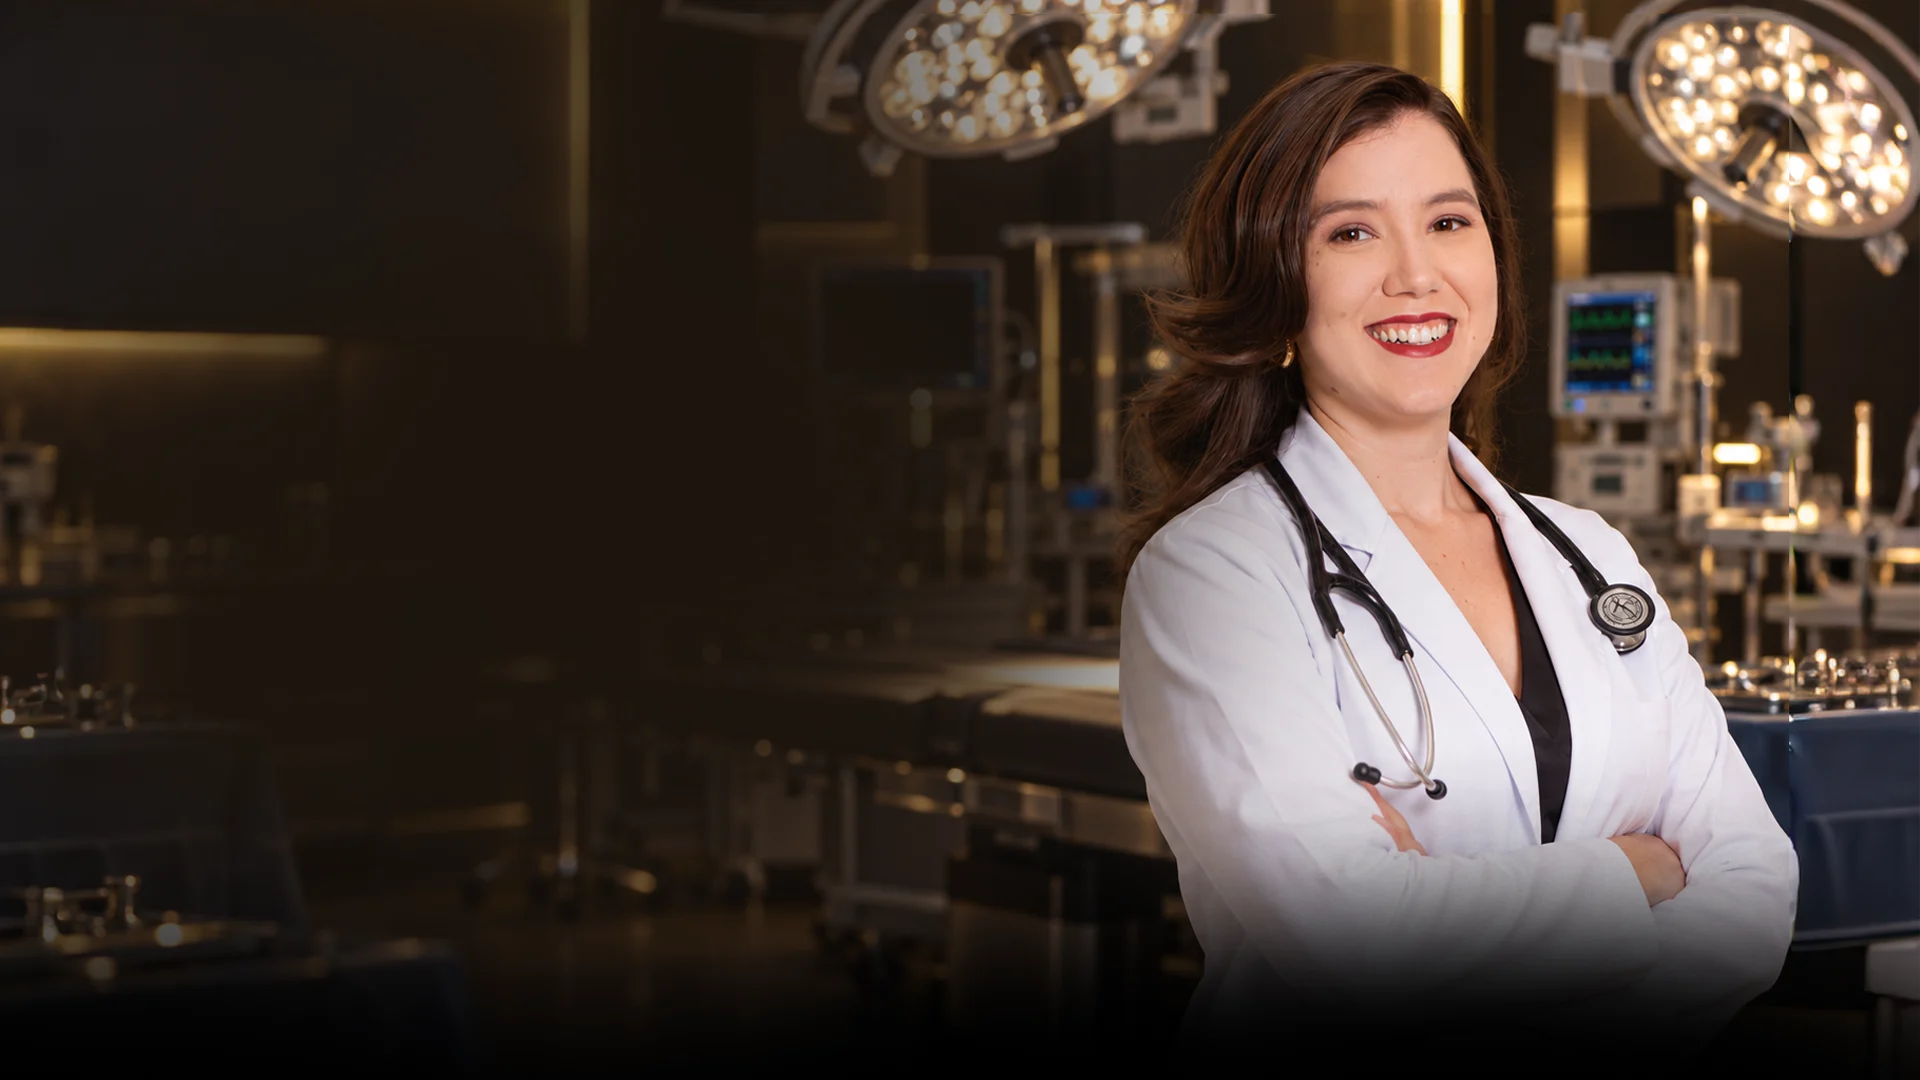
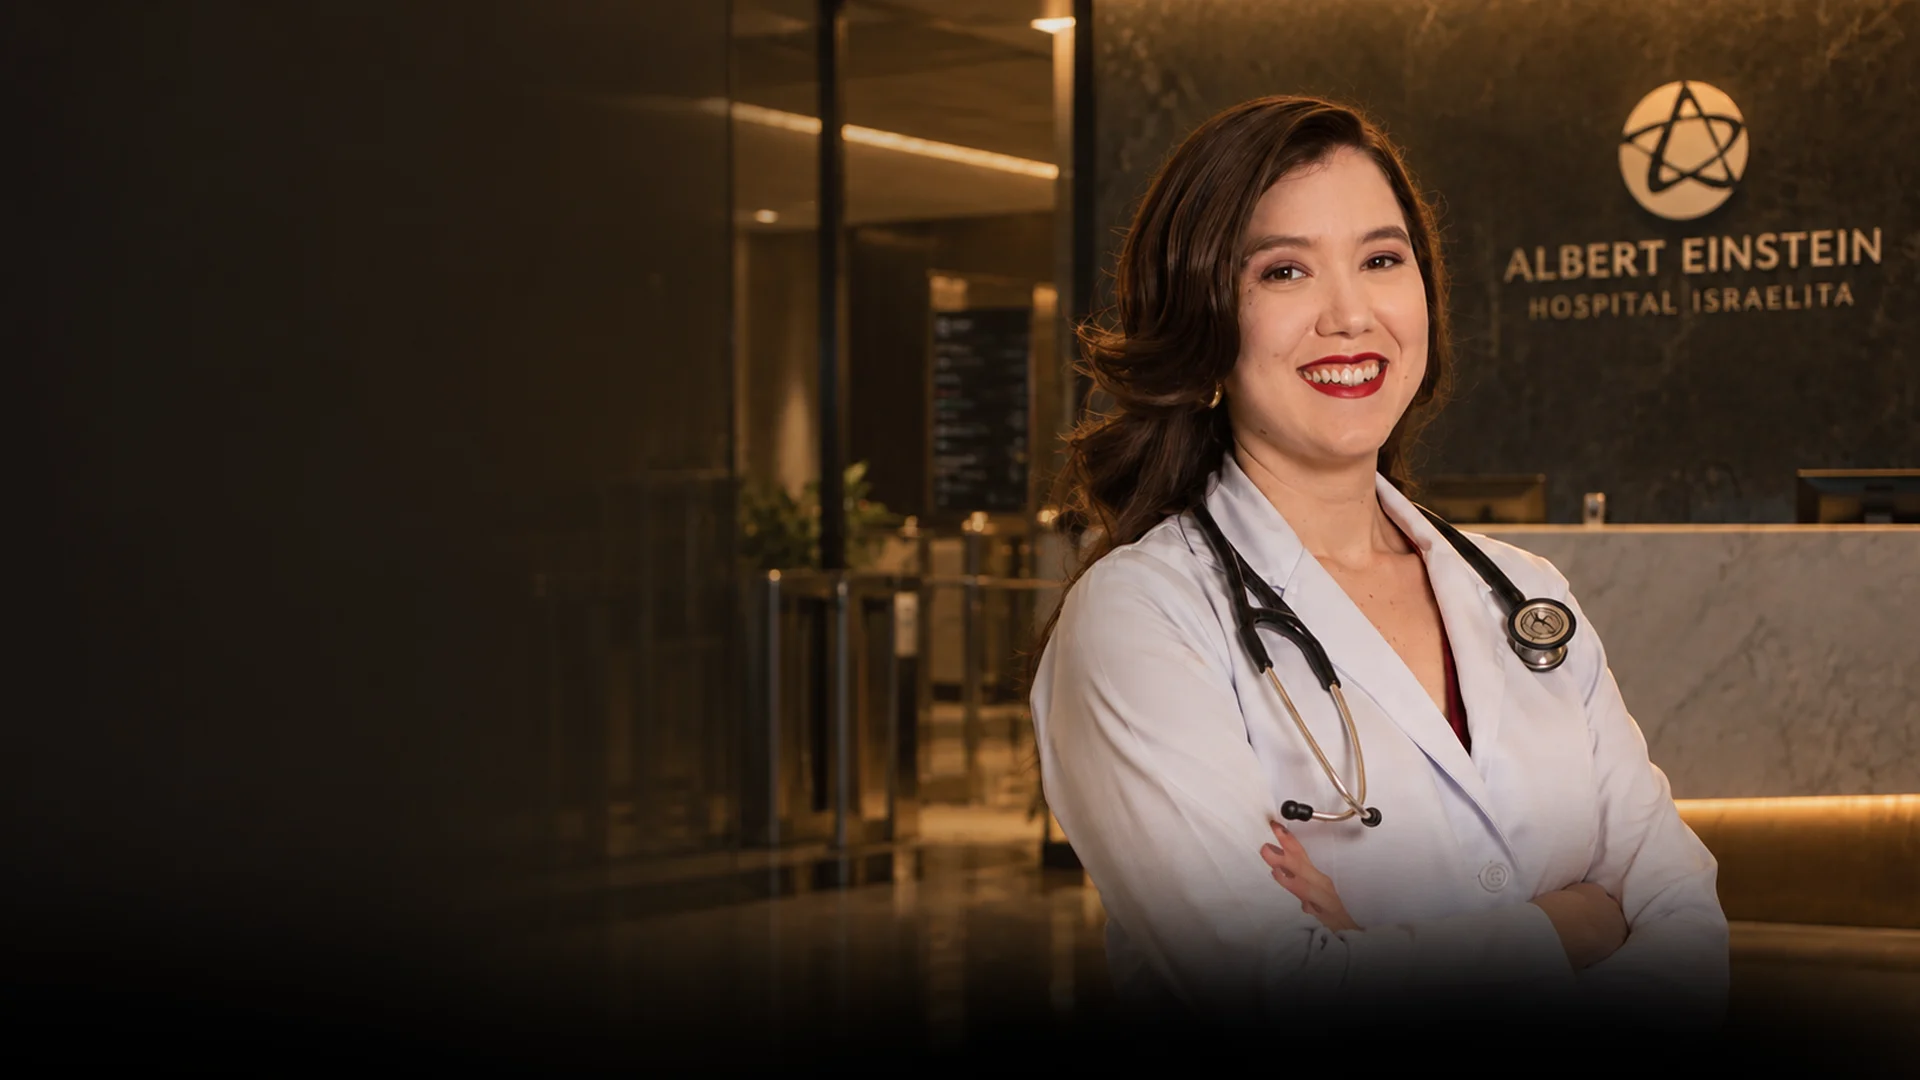
R80+: nova foto do hero no desktop e no celular; hero centralizado no celular

diff --git a/mentoria-r80.html b/mentoria-r80.html
@@ -19,7 +19,7 @@
 <link rel="preconnect" href="https://fonts.googleapis.com">
 <link rel="preconnect" href="https://fonts.gstatic.com" crossorigin>
 <link rel="stylesheet" href="https://fonts.googleapis.com/css2?family=Geist:wght@300;400;500;600;700&display=swap">
-<link rel="stylesheet" href="css/r80.css?v=202609304400">
+<link rel="stylesheet" href="css/r80.css?v=202609304500">
 
 <script type="application/ld+json">
 {"@context":"https://schema.org","@type":"FAQPage","mainEntity":[
@@ -62,10 +62,7 @@
 <!-- ============ DOBRA 1 ============ -->
 <section class="hero escuro clara-sec" id="inicio">
   <!-- mesma foto e mesma disposição do "Quem conduz": foto cobrindo a dobra, texto à esquerda no lado escuro -->
-  <div class="clara-fundo hero-foto-fundo"><picture>
-    <source media="(min-width:981px)" srcset="img/r80-hero-desk.webp" width="1920" height="1080">
-    <img src="img/r80-clara.webp" alt="Dra. Clara Aragão de jaleco, sorrindo" width="1920" height="1083" fetchpriority="high" decoding="async">
-  </picture></div>
+  <div class="clara-fundo hero-foto-fundo"><img src="img/r80-hero-desk.webp?v=2" alt="Dra. Clara Aragão de jaleco e estetoscópio, de braços cruzados, no hospital" width="1920" height="1080" fetchpriority="high" decoding="async"></div>
   <div class="caixa clara hero-in">
     <img class="hero-logo rv" src="img/r80-logo-ppa.webp" alt="Mentoria PPA" width="516" height="240">
     <h1 class="h1 rv">Mentoria individual para <em>acelerar o seu currículo</em> e te preparar para disputar <em>o topo da lista</em> nas residências mais concorridas do país.</h1>

diff --git a/css/r80.css b/css/r80.css
@@ -107,7 +107,7 @@ p,li{text-wrap:pretty}
 .hero .clara-fundo img{right:-8%}  /* um pouco mais à direita que no Quem conduz: o texto do hero é mais alto */
 /* desktop: foto própria do hero (Clara já à direita, esquerda escura) cobre a dobra inteira */
 @media (min-width:981px){
-  .hero .hero-foto-fundo img{inset:0;width:100%;height:100%;min-width:0;object-fit:cover;object-position:62% 30%}
+  .hero .hero-foto-fundo img{inset:0;width:100%;height:100%;min-width:0;object-fit:cover;object-position:60% 30%}
   .hero-foto-fundo::after{background:linear-gradient(90deg,rgba(0,0,0,.85) 0%,rgba(0,0,0,.55) 30%,rgba(0,0,0,0) 50%),
     linear-gradient(0deg,rgba(0,0,0,.7) 0%,rgba(0,0,0,0) 20%)}
 }
@@ -477,7 +477,11 @@ p,li{text-wrap:pretty}
   .bt{font-size:12px;padding:17px 20px;letter-spacing:.03em}
   .hero{padding-bottom:60px}
   .hero.clara-sec{padding-top:0}
-  .hero .clara-fundo img{right:auto}
+  .hero .clara-fundo img{right:auto;object-position:71% 18%}  /* celular: recorte na Clara */
+  .hero-in{align-items:center;text-align:center}
+  .hero-in>*{margin-left:auto;margin-right:auto}
+  .hero .h1,.hero-apoio{text-align:center}
+  .hero .micro{justify-content:center;text-align:center}
   .marca span{display:none}
   .dor-talvez{text-align:center}
   .dor-lista button{font-size:15px}
